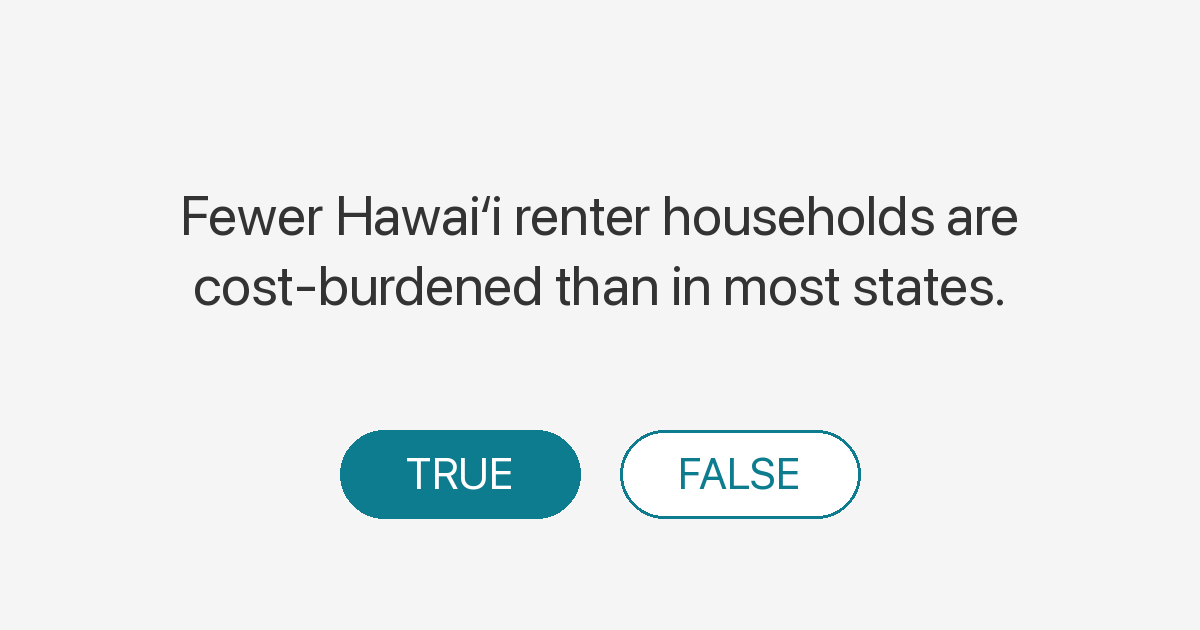
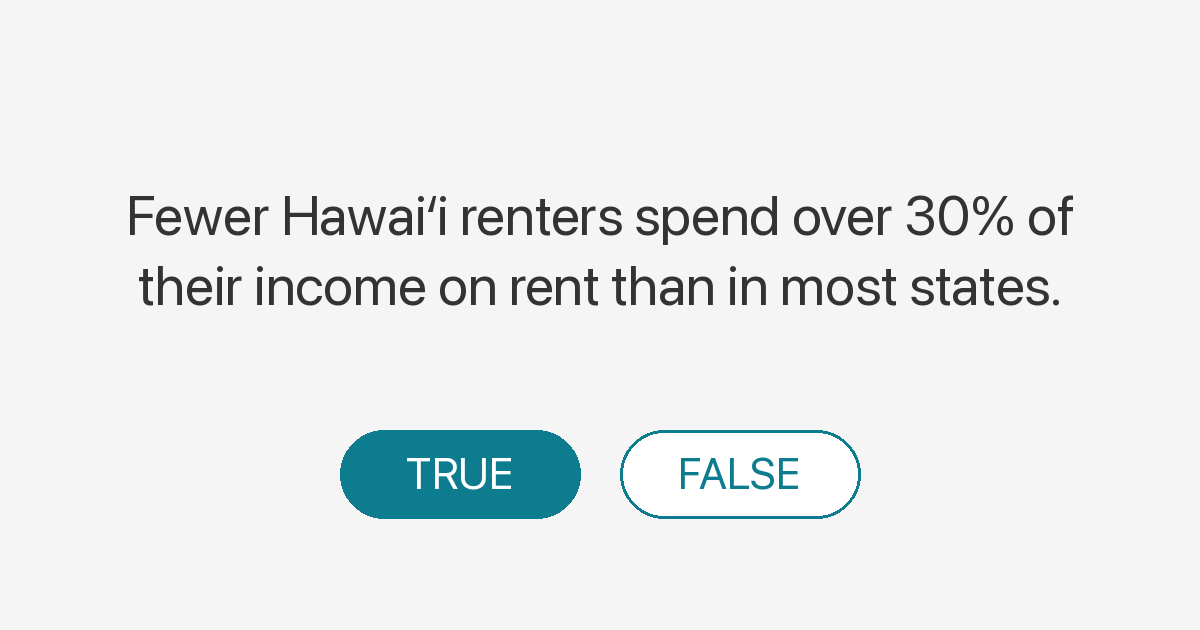
qotd(q005): plain-language reword, drop 'cost-burdened' jargon
Replace 'Fewer Hawaiʻi renter households are cost-burdened than in most states' with 'Fewer Hawaiʻi renters spend over 30% of their income on rent than in most states'. Same metric (renter_cost_burden_pct), same FALSE answer (HI 55.0% vs 49.4% median); just removes housing-policy jargon. Regenerated the QOTD OG card + q/q005 redirect. The og pass also refreshed a stale renter_cost_burden_pct severe-variant page (canonical now points to the base metric) + its OG.

Changed region(s): [[0.0925, 0.3016, 0.8942, 0.3921], [0.0925, 0.4222, 0.8942, 0.4825]]

diff --git a/q/q005/index.html b/q/q005/index.html
@@ -13,7 +13,7 @@
   <meta name="twitter:card" content="summary_large_image">
   <meta name="twitter:title" content="You know Hawaiʻi?">
   <meta name="twitter:image" content="https://hawaiidashboard.org/assets/og/q/most-hawaii-renters-spend-over-30-percent-on-rent.png">
-  <meta name="description" content="Fewer Hawaiʻi renter households are cost-burdened than in most states.">
+  <meta name="description" content="Fewer Hawaiʻi renters spend over 30% of their income on rent than in most states.">
   <link rel="canonical" href="https://hawaiidashboard.org/q/q005/">
   <script>window.location.replace("/?from_q=q005");</script>
   <meta http-equiv="refresh" content="0;url=https://hawaiidashboard.org/?from_q=q005">
@@ -22,7 +22,7 @@
   <p>Redirecting to <a href="https://hawaiidashboard.org/?from_q=q005">You know Hawaiʻi?</a>&hellip;</p>
   <article style="max-width:640px;margin:2rem auto;padding:0 1rem;font-family:-apple-system,BlinkMacSystemFont,'Segoe UI',sans-serif;color:#333;line-height:1.55;">
     <p style="color:#888;font-size:0.875rem;text-transform:uppercase;letter-spacing:0.05em;margin:0;">You know Hawaiʻi?</p>
-    <p style="margin:0.25rem 0 1rem;font-size:1.25rem;font-weight:600;">Fewer Hawaiʻi renter households are cost-burdened than in most states.</p>
+    <p style="margin:0.25rem 0 1rem;font-size:1.25rem;font-weight:600;">Fewer Hawaiʻi renters spend over 30% of their income on rent than in most states.</p>
     <p><strong>False.</strong> In 2024, Hawaiʻi was 55.0% versus the median of 49.4%.</p>
     <p style="margin-top:1.5rem;"><a href="/r/renter_cost_burden_pct/">See the data &rarr;</a></p>
   </article>

diff --git a/c/renter_cost_burden_pct/severe/index.html b/c/renter_cost_burden_pct/severe/index.html
@@ -16,7 +16,7 @@
   <meta name="twitter:description" content="Compare renter housing cost burden across Honolulu, Hawaiʻi, Maui, and Kauaʻi counties.">
   <meta name="twitter:image" content="https://hawaiidashboard.org/assets/og/renter_cost_burden_pct_severe_county.png">
   <meta name="description" content="Compare renter housing cost burden across Honolulu, Hawaiʻi, Maui, and Kauaʻi counties.">
-  <link rel="canonical" href="https://hawaiidashboard.org/c/renter_cost_burden_pct/severe/">
+  <link rel="canonical" href="https://hawaiidashboard.org/c/renter_cost_burden_pct/">
   <script>window.location.replace('/?_th=severe#renter_cost_burden_pct/county');</script>
   <meta http-equiv="refresh" content="0;url=https://hawaiidashboard.org/?_th=severe#renter_cost_burden_pct/county">
 </head>

diff --git a/js/questions.js b/js/questions.js
@@ -143,7 +143,7 @@ const QOTD_QUESTIONS = [
   {
       "id": "q005",
       "slug": "most-hawaii-renters-spend-over-30-percent-on-rent",
-      "claim": "Fewer Hawaiʻi renter households are cost-burdened than in most states.",
+      "claim": "Fewer Hawaiʻi renters spend over 30% of their income on rent than in most states.",
       "correct": false,
       "answer": "In 2024, Hawaiʻi was 55.0% versus the median of 49.4%.",
       "chartUrl": "/r/renter_cost_burden_pct/",
